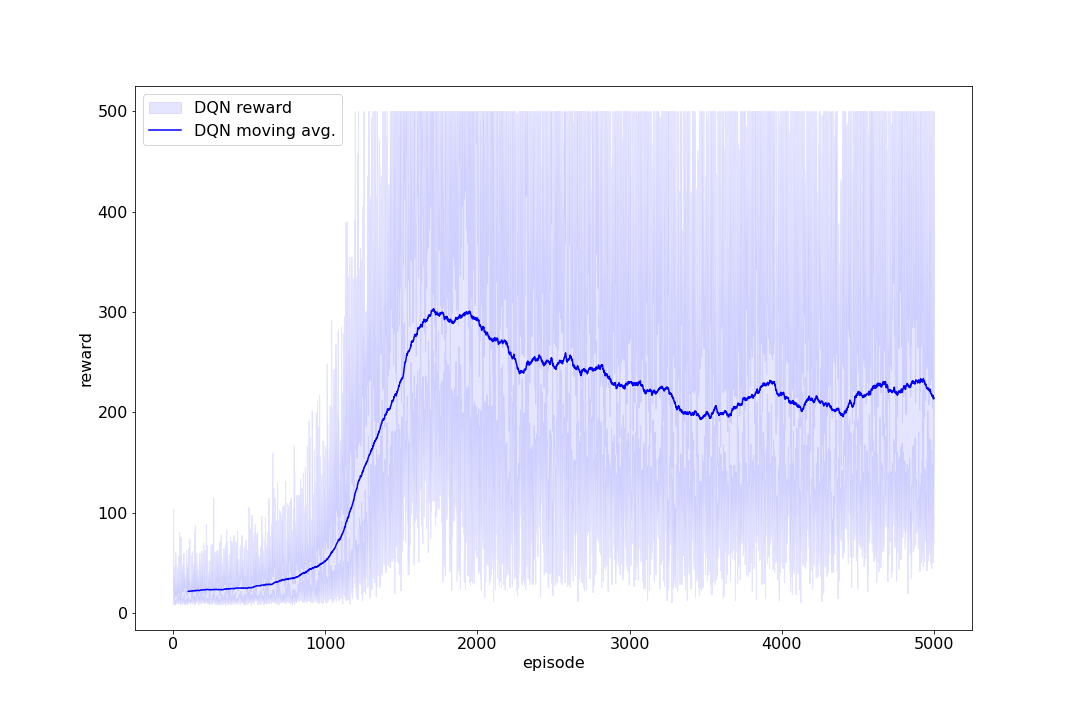
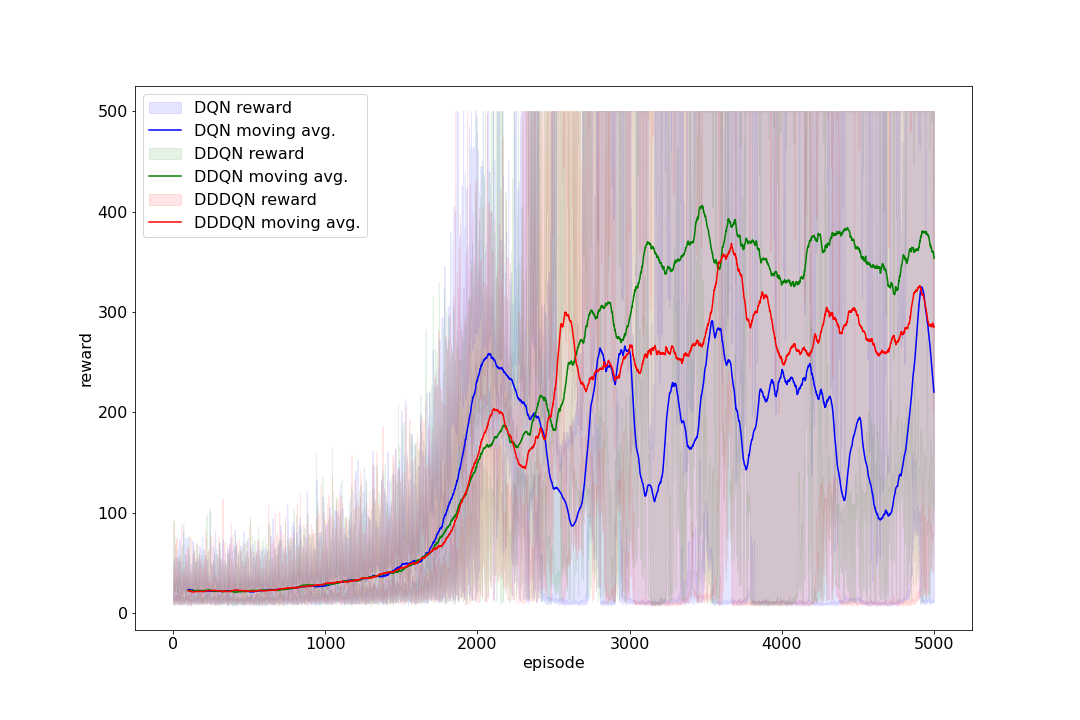
add ddqn, dddqn

diff --git a/CartPole/DQN/dddqn.py b/CartPole/DQN/dddqn.py
@@ -34,21 +34,26 @@ class ReplayMemory:
         return len(self.memory)
 
 
-class DQN(nn.Module):
+class DuelingDQN(nn.Module):
     def __init__(self):
-        super(DQN, self).__init__()
+        super(DuelingDQN, self).__init__()
 
-        self.dqn = nn.Sequential(
+        self.pre = nn.Sequential(
             nn.Linear(4, 16),
             nn.ReLU(),
             nn.Linear(16, 16),
-            nn.ReLU(),
-            nn.Linear(16, 2)
+            nn.ReLU()
         )
+        self.value = nn.Linear(16, 1)
+        self.advantage = nn.Linear(16, 2)
 
     @to_torch
     def forward(self, state: torch.Tensor):
-        return self.dqn(state)
+        x = self.pre(state)
+        value = self.value(x)
+        advantage = self.advantage(x)
+        advantage -= advantage.mean(dim=-1, keepdim=True)
+        return value + advantage
 
     @no_grad()
     def select_action(self, state: torch.Tensor, epsilon: float = 0):
@@ -57,7 +62,7 @@ class DQN(nn.Module):
         return self(state).argmax().item()
 
 
-def deep_q_learning(
+def double_deep_q_learning(
     gamma: float = 0.99,
     num_episodes: int = 5000,
     batch_size: int = 64,
@@ -66,9 +71,9 @@ def deep_q_learning(
     env = gym.make("CartPole-v1")
 
     replay_memory = ReplayMemory(capacity=100_000)
-    policy = DQN()
+    policy = DuelingDQN()
 
-    target_policy = DQN()
+    target_policy = DuelingDQN()
     target_policy.load_state_dict(policy.state_dict())
     target_policy.eval()
 
@@ -103,8 +108,14 @@ def deep_q_learning(
             rewards = torch.as_tensor(transition.reward).float()
             dones = torch.as_tensor(transition.done).long()
 
-            estimate = torch.gather(policy(transition.state), dim=-1, index=actions).squeeze(dim=-1)
-            td_target = rewards + (1 - dones) * gamma * target_policy(transition.next_state).max(dim=-1)[0]
+            _values = policy(transition.state)
+            estimate = torch.gather(_values, dim=-1, index=actions).squeeze(dim=-1)
+
+            _actions = _values.argmax(dim=-1).unsqueeze(dim=-1)
+            td_target = rewards + (1 - dones) * gamma * torch.gather(
+                target_policy(transition.next_state), dim=-1,
+                index=_actions
+            ).squeeze(dim=-1)
             loss = F.mse_loss(estimate, td_target)
 
             optimizer.zero_grad()
@@ -130,7 +141,7 @@ def deep_q_learning(
 
 
 if __name__ == "__main__":
-    policy, acc_rewards = deep_q_learning(
+    policy, acc_rewards = double_deep_q_learning(
         gamma=0.99,
         num_episodes=5000,
         batch_size=64,

diff --git a/CartPole/DQN/ddqn.py b/CartPole/DQN/ddqn.py
@@ -57,7 +57,7 @@ class DQN(nn.Module):
         return self(state).argmax().item()
 
 
-def deep_q_learning(
+def double_deep_q_learning(
     gamma: float = 0.99,
     num_episodes: int = 5000,
     batch_size: int = 64,
@@ -103,8 +103,14 @@ def deep_q_learning(
             rewards = torch.as_tensor(transition.reward).float()
             dones = torch.as_tensor(transition.done).long()
 
-            estimate = torch.gather(policy(transition.state), dim=-1, index=actions).squeeze(dim=-1)
-            td_target = rewards + (1 - dones) * gamma * target_policy(transition.next_state).max(dim=-1)[0]
+            _values = policy(transition.state)
+            estimate = torch.gather(_values, dim=-1, index=actions).squeeze(dim=-1)
+
+            _actions = _values.argmax(dim=-1).unsqueeze(dim=-1)
+            td_target = rewards + (1 - dones) * gamma * torch.gather(
+                target_policy(transition.next_state), dim=-1,
+                index=_actions
+            ).squeeze(dim=-1)
             loss = F.mse_loss(estimate, td_target)
 
             optimizer.zero_grad()
@@ -130,7 +136,7 @@ def deep_q_learning(
 
 
 if __name__ == "__main__":
-    policy, acc_rewards = deep_q_learning(
+    policy, acc_rewards = double_deep_q_learning(
         gamma=0.99,
         num_episodes=5000,
         batch_size=64,
